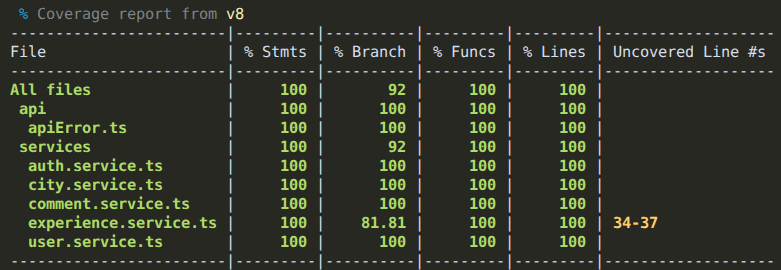
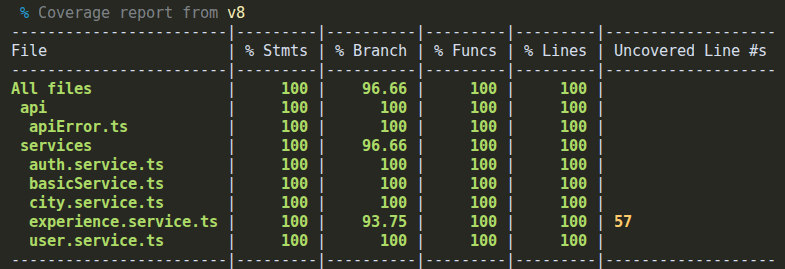
updating tests documentation

diff --git a/docs/development_guide.md b/docs/development_guide.md
@@ -396,149 +396,216 @@ These tests verify complete user workflows such as:
 
 The following table shows the relationship between the implemented automated tests and the functional requirements defined during the analysis phase.
 
-| Functional Requirement   | Tested | Test Type   | Test Class                   | Layer  |
-| ------------------------ | :----: | ----------- | ---------------------------- | ------ |
-| Showing Experiences      |   ✅    | Unit        | ExperienceMapperTest         | Server |
-| Showing Experiences      |   ✅    | Unit        | ExperienceRestControllerTest | Server |
-| Showing Experiences      |   ✅    | Unit        | ExperienceServiceTest        | Server |
-| Showing Experiences      |   ✅    | Unit        | ExperienceSimpleDTOTest      | Server |
-| Showing Experiences      |   ✅    | Unit        | ExperienceTest               | Server |
-| Showing Experiences      |   ✅    | Integration | ExperienceServiceTest        | Server |
-| Showing Experiences      |   ✅    | E2E         | ExperiencesTest              | Server |
-| Showing Experiences      |   ✅    | System      | ExperiencesPageTest          | Server |
-| Showing Experiences      |   ✅    | Unit        | Experience.service.test      | Client |
-| Showing Experiences      |   ✅    | Unit        | Experience.test              | Client |
-| Showing Experiences      |   ✅    | Unit        | ExperiencesPage.test         | Client |
-| Showing Experiences      |   ✅    | Integration | Experiences.test             | Client |
-| Post Experience          |   ✅    | Unit        | ExperienceMapperTest         | Server |
-| Post Experience          |   ✅    | Unit        | ExperienceServiceTest        | Server |
-| Post Experience          |   ✅    | Unit        | ExperienceDTOTest            | Server |
-| Post Experience          |   ✅    | Unit        | ExperienceTest               | Server |
-| Post Experience          |   ✅    | Integration | ExperienceServiceTest        | Server |
-| Post Experience          |   ✅    | E2E         | ExperiencesTest              | Server |
-| Post Experience          |   ✅    | System      | ExperienceFormPageTest       | Server |
-| Post Experience          |   ✅    | Unit        | Experience.service.test      | Client |
-| Post Experience          |   ✅    | Unit        | ExperienceFormPage.test      | Client |
-| Post Experience          |   ✅    | Integration | ExperiencesForm.test         | Client |
-| Post Comment             |   ✅    | Unit        | CommentMapperTest            | Server |
-| Post Comment             |   ✅    | Unit        | ExperienceServiceTest        | Server |
-| Post Comment             |   ✅    | Unit        | CommentDTOTest               | Server |
-| Post Comment             |   ✅    | Unit        | CommentTest                  | Server |
-| Post Comment             |   ✅    | Unit        | ExperienceTest               | Server |
-| Post Comment             |   ✅    | Integration | ExperienceServiceTest        | Server |
-| Post Comment             |   ✅    | E2E         | ExperiencesTest              | Server |
-| Post Comment             |   ✅    | System      | ExperiencesTest              | Server |
-| Post Comment             |   ✅    | Unit        | Comment.service.test         | Client |
-| Post Comment             |   ✅    | Unit        | Comments.test                | Client |
-| Post Comment             |   ✅    | Integration | Comments.test                | Client |
-| View detailed Experience |   ✅    | Unit        | ExperienceMapperTest         | Server |
-| View detailed Experience |   ✅    | Unit        | ExperienceServiceTest        | Server |
-| View detailed Experience |   ✅    | Unit        | ExperienceDTOTest            | Server |
-| View detailed Experience |   ✅    | Unit        | ExperienceTest               | Server |
-| View detailed Experience |   ✅    | Integration | ExperienceServiceTest        | Server |
-| View detailed Experience |   ✅    | E2E         | ExperiencesTest              | Server |
-| View detailed Experience |   ✅    | System      | ExperiencesTest              | Server |
-| View detailed Experience |   ✅    | Unit        | Experience.service.test      | Client |
-| View detailed Experience |   ✅    | Unit        | DetailedExperiencePage.test  | Client |
-| View detailed Experience |   ✅    | Integration | DetailedExperience.test      | Client |
-| SignUp                   |   ✅    | Unit        | UserMapperTest               | Server |
-| SignUp                   |   ✅    | Unit        | UserServiceTest              | Server |
-| SignUp                   |   ✅    | Unit        | UserDTOTest                  | Server |
-| SignUp                   |   ✅    | Unit        | UserTest                     | Server |
-| SignUp                   |   ✅    | Integration | UserServiceTest              | Server |
-| SignUp                   |   ✅    | E2E         | UsersTest                    | Server |
-| SignUp                   |   ✅    | System      | UsersTest                    | Server |
-| SignUp                   |   ✅    | Unit        | User.service.test            | Client |
-| SignUp                   |   ✅    | Unit        | UserFormPage.test            | Client |
-| SignUp                   |   ✅    | Integration | SignUp.test                  | Client |
-| Edit User                |   ✅    | Unit        | UserMapperTest               | Server |
-| Edit User                |   ✅    | Unit        | UserServiceTest              | Server |
-| Edit User                |   ✅    | Unit        | UserDTOTest                  | Server |
-| Edit User                |   ✅    | Unit        | UserTest                     | Server |
-| Edit User                |   ✅    | Integration | UserServiceTest              | Server |
-| Edit User                |   ✅    | E2E         | UsersTest                    | Server |
-| Edit User                |   ✅    | System      | UsersTest                    | Server |
-| Edit User                |   ✅    | Unit        | User.service.test            | Client |
-| Edit User                |   ✅    | Unit        | UserFormPage.test            | Client |
-| Edit User                |   ✅    | Integration | UserForm.test                | Client |
-| Log In                   |   ✅    | Unit        | Auth.service.test            | Client |
-| Log In                   |   ✅    | Unit        | LogInPage.test               | Client |
-| Log In                   |   ✅    | Integration | LogIn.test                   | Client |
-| Log Out                  |   ✅    | Unit        | Auth.service.test            | Client |
-| Log Out                  |   ✅    | Unit        | UserPage.test                | Client |
-| Log Out                  |   ✅    | Integration | Users.test                   | Client |
-| Add City                 |   ✅    | Unit        | CityMapperTest               | Server |
-| Add City                 |   ✅    | Unit        | CityServiceTest              | Server |
-| Add City                 |   ✅    | Unit        | CityDTOTest                  | Server |
-| Add City                 |   ✅    | Unit        | CityTest                     | Server |
-| Add City                 |   ✅    | Integration | CityServiceTest              | Server |
-| Add City                 |   ✅    | E2E         | CitiesTest                   | Server |
-| Add City                 |   ✅    | System      | CitiesTest                   | Server |
-| Add City                 |   ✅    | Unit        | City.service.test            | Client |
-| Add City                 |   ✅    | Unit        | CityFormPage.test            | Client |
-| Add City                 |   ✅    | Integration | CityForm.test                | Client |
-| Get Cities               |   ✅    | Unit        | CityMapperTest               | Server |
-| Get Cities               |   ✅    | Unit        | CityServiceTest              | Server |
-| Get Cities               |   ✅    | Unit        | CitySimpleDTOTest            | Server |
-| Get Cities               |   ✅    | Unit        | CityTest                     | Server |
-| Get Cities               |   ✅    | Integration | CityServiceTest              | Server |
-| Get Cities               |   ✅    | E2E         | CitiesTest                   | Server |
-| Get Cities               |   ✅    | System      | CitiesTest                   | Server |
-| Get Cities               |   ✅    | Unit        | City.service.test            | Client |
-| Get Cities               |   ✅    | Unit        | ExperienceFormPage.test      | Client |
-| Get Cities               |   ✅    | Integration | ExperienceForm.test          | Client |
-| Show user's experiences  |   ✅    | Unit        | ExperienceMapperTest         | Server |
-| Show user's experiences  |   ✅    | Unit        | UserServiceTest              | Server |
-| Show user's experiences  |   ✅    | Unit        | ExperienceSimpleDTOTest      | Server |
-| Show user's experiences  |   ✅    | Unit        | UserTest                     | Server |
-| Show user's experiences  |   ✅    | Unit        | ExperienceTest               | Server |
-| Show user's experiences  |   ✅    | Integration | UserServiceTest              | Server |
-| Show user's experiences  |   ✅    | E2E         | UsersTest                    | Server |
-| Show user's experiences  |   ✅    | System      | UsersTest                    | Server |
-| Show user's experiences  |   ✅    | Unit        | User.service.test            | Client |
-| Show user's experiences  |   ✅    | Unit        | UserPage.test                | Client |
-| Show user's experiences  |   ✅    | Integration | User.test                    | Client |
-| Show user's comments     |   ✅    | Unit        | CommentMapperTest            | Server |
-| Show user's comments     |   ✅    | Unit        | UserServiceTest              | Server |
-| Show user's comments     |   ✅    | Unit        | CommentSimpleDTOTest         | Server |
-| Show user's comments     |   ✅    | Unit        | UserTest                     | Server |
-| Show user's comments     |   ✅    | Unit        | CommentTest                  | Server |
-| Show user's comments     |   ✅    | Integration | UserServiceTest              | Server |
-| Show user's comments     |   ✅    | E2E         | UsersTest                    | Server |
-| Show user's comments     |   ✅    | System      | UsersTest                    | Server |
-| Show user's comments     |   ✅    | Unit        | User.service.test            | Client |
-| Show user's comments     |   ✅    | Unit        | UserPage.test                | Client |
-| Show user's comments     |   ✅    | Integration | User.test                    | Client |
-| Delete Experience        |   ✅    | Unit        | ExperienceMapperTest         | Server |
-| Delete Experience        |   ✅    | Unit        | ExperienceServiceTest        | Server |
-| Delete Experience        |   ✅    | Unit        | ExperienceDTOTest            | Server |
-| Delete Experience        |   ✅    | Unit        | ExperienceTest               | Server |
-| Delete Experience        |   ✅    | Integration | ExperienceServiceTest        | Server |
-| Delete Experience        |   ✅    | E2E         | ExperiencesTest              | Server |
-| Delete Experience        |   ✅    | System      | ExperiencesTest              | Server |
-| Delete Experience        |   ✅    | Unit        | Experience.service.test      | Client |
-| Delete Experience        |   ✅    | Unit        | UserPage.test                | Client |
-| Delete Experience        |   ✅    | Integration | User.test                    | Client |
-| Delete Comment           |   ✅    | Unit        | CommentMapperTest            | Server |
-| Delete Comment           |   ✅    | Unit        | CommentServiceTest           | Server |
-| Delete Comment           |   ✅    | Unit        | CommentDTOTest               | Server |
-| Delete Comment           |   ✅    | Unit        | CommentTest                  | Server |
-| Delete Comment           |   ✅    | Integration | CommentServiceTest           | Server |
-| Delete Comment           |   ✅    | E2E         | CommentsTest                 | Server |
-| Delete Comment           |   ✅    | System      | CommentsTest                 | Server |
-| Delete Comment           |   ✅    | Unit        | Comment.service.test         | Client |
-| Delete Comment           |   ✅    | Unit        | UserPage.test                | Client |
-| Delete Comment           |   ✅    | Integration | User.test                    | Client |
-| Delete User              |   ✅    | Unit        | UserMapperTest               | Server |
-| Delete Comment           |   ✅    | Unit        | UserServiceTest              | Server |
-| Delete Comment           |   ✅    | Unit        | UserDTOTest                  | Server |
-| Delete Comment           |   ✅    | Unit        | UserTest                     | Server |
-| Delete Comment           |   ✅    | Integration | UserServiceTest              | Server |
-| Delete Comment           |   ✅    | E2E         | UsersTest                    | Server |
-| Delete Comment           |   ✅    | System      | UsersTest                    | Server |
-| Delete Comment           |   ✅    | Unit        | User.service.test            | Client |
-| Delete Comment           |   ✅    | Unit        | UserPage.test                | Client |
-| Delete Comment           |   ✅    | Integration | User.test                    | Client |
+| Functional Requirement        | Tested | Test Type   | Test Class                   | Layer  |
+| ----------------------------- | :----: | ----------- | ---------------------------- | ------ |
+| Showing Experiences           |   ✅    | Unit        | ExperienceMapperTest         | Server |
+| Showing Experiences           |   ✅    | Unit        | ExperienceRestControllerTest | Server |
+| Showing Experiences           |   ✅    | Unit        | ExperienceServiceTest        | Server |
+| Showing Experiences           |   ✅    | Unit        | ExperienceSimpleDTOTest      | Server |
+| Showing Experiences           |   ✅    | Unit        | ExperienceTest               | Server |
+| Showing Experiences           |   ✅    | Integration | ExperienceServiceTest        | Server |
+| Showing Experiences           |   ✅    | E2E         | ExperiencesTest              | Server |
+| Showing Experiences           |   ✅    | System      | ExperiencesPageTest          | Server |
+| Showing Experiences           |   ✅    | Unit        | Experience.service.test      | Client |
+| Showing Experiences           |   ✅    | Unit        | Experience.test              | Client |
+| Showing Experiences           |   ✅    | Unit        | ExperiencesPage.test         | Client |
+| Showing Experiences           |   ✅    | Integration | Experiences.test             | Client |
+| Post Experience               |   ✅    | Unit        | ExperienceMapperTest         | Server |
+| Post Experience               |   ✅    | Unit        | ExperienceServiceTest        | Server |
+| Post Experience               |   ✅    | Unit        | ExperienceDTOTest            | Server |
+| Post Experience               |   ✅    | Unit        | ExperienceTest               | Server |
+| Post Experience               |   ✅    | Integration | ExperienceServiceTest        | Server |
+| Post Experience               |   ✅    | E2E         | ExperiencesTest              | Server |
+| Post Experience               |   ✅    | System      | ExperienceFormPageTest       | Server |
+| Post Experience               |   ✅    | Unit        | Experience.service.test      | Client |
+| Post Experience               |   ✅    | Unit        | ExperienceFormPage.test      | Client |
+| Post Experience               |   ✅    | Integration | ExperiencesForm.test         | Client |
+| Post Comment                  |   ✅    | Unit        | CommentMapperTest            | Server |
+| Post Comment                  |   ✅    | Unit        | ExperienceServiceTest        | Server |
+| Post Comment                  |   ✅    | Unit        | CommentDTOTest               | Server |
+| Post Comment                  |   ✅    | Unit        | CommentTest                  | Server |
+| Post Comment                  |   ✅    | Unit        | ExperienceTest               | Server |
+| Post Comment                  |   ✅    | Integration | ExperienceServiceTest        | Server |
+| Post Comment                  |   ✅    | E2E         | ExperiencesTest              | Server |
+| Post Comment                  |   ✅    | System      | ExperiencesTest              | Server |
+| Post Comment                  |   ✅    | Unit        | Comment.service.test         | Client |
+| Post Comment                  |   ✅    | Unit        | Comments.test                | Client |
+| Post Comment                  |   ✅    | Integration | Comments.test                | Client |
+| View detailed Experience      |   ✅    | Unit        | ExperienceMapperTest         | Server |
+| View detailed Experience      |   ✅    | Unit        | ExperienceServiceTest        | Server |
+| View detailed Experience      |   ✅    | Unit        | ExperienceDTOTest            | Server |
+| View detailed Experience      |   ✅    | Unit        | ExperienceTest               | Server |
+| View detailed Experience      |   ✅    | Integration | ExperienceServiceTest        | Server |
+| View detailed Experience      |   ✅    | E2E         | ExperiencesTest              | Server |
+| View detailed Experience      |   ✅    | System      | ExperiencesTest              | Server |
+| View detailed Experience      |   ✅    | Unit        | Experience.service.test      | Client |
+| View detailed Experience      |   ✅    | Unit        | DetailedExperiencePage.test  | Client |
+| View detailed Experience      |   ✅    | Integration | DetailedExperience.test      | Client |
+| SignUp                        |   ✅    | Unit        | UserMapperTest               | Server |
+| SignUp                        |   ✅    | Unit        | UserServiceTest              | Server |
+| SignUp                        |   ✅    | Unit        | UserDTOTest                  | Server |
+| SignUp                        |   ✅    | Unit        | UserTest                     | Server |
+| SignUp                        |   ✅    | Integration | UserServiceTest              | Server |
+| SignUp                        |   ✅    | E2E         | UsersTest                    | Server |
+| SignUp                        |   ✅    | System      | UsersTest                    | Server |
+| SignUp                        |   ✅    | Unit        | User.service.test            | Client |
+| SignUp                        |   ✅    | Unit        | UserFormPage.test            | Client |
+| SignUp                        |   ✅    | Integration | SignUp.test                  | Client |
+| Edit User                     |   ✅    | Unit        | UserMapperTest               | Server |
+| Edit User                     |   ✅    | Unit        | UserServiceTest              | Server |
+| Edit User                     |   ✅    | Unit        | UserDTOTest                  | Server |
+| Edit User                     |   ✅    | Unit        | UserTest                     | Server |
+| Edit User                     |   ✅    | Integration | UserServiceTest              | Server |
+| Edit User                     |   ✅    | E2E         | UsersTest                    | Server |
+| Edit User                     |   ✅    | System      | UsersTest                    | Server |
+| Edit User                     |   ✅    | Unit        | User.service.test            | Client |
+| Edit User                     |   ✅    | Unit        | UserFormPage.test            | Client |
+| Edit User                     |   ✅    | Integration | UserForm.test                | Client |
+| Log In                        |   ✅    | Unit        | Auth.service.test            | Client |
+| Log In                        |   ✅    | Unit        | LogInPage.test               | Client |
+| Log In                        |   ✅    | Integration | LogIn.test                   | Client |
+| Log Out                       |   ✅    | Unit        | Auth.service.test            | Client |
+| Log Out                       |   ✅    | Unit        | UserPage.test                | Client |
+| Log Out                       |   ✅    | Integration | Users.test                   | Client |
+| Add City                      |   ✅    | Unit        | CityMapperTest               | Server |
+| Add City                      |   ✅    | Unit        | CityServiceTest              | Server |
+| Add City                      |   ✅    | Unit        | CityDTOTest                  | Server |
+| Add City                      |   ✅    | Unit        | CityTest                     | Server |
+| Add City                      |   ✅    | Integration | CityServiceTest              | Server |
+| Add City                      |   ✅    | E2E         | CitiesTest                   | Server |
+| Add City                      |   ✅    | System      | CitiesTest                   | Server |
+| Add City                      |   ✅    | Unit        | City.service.test            | Client |
+| Add City                      |   ✅    | Unit        | CityFormPage.test            | Client |
+| Add City                      |   ✅    | Integration | CityForm.test                | Client |
+| Get Cities                    |   ✅    | Unit        | CityMapperTest               | Server |
+| Get Cities                    |   ✅    | Unit        | CityServiceTest              | Server |
+| Get Cities                    |   ✅    | Unit        | CitySimpleDTOTest            | Server |
+| Get Cities                    |   ✅    | Unit        | CityTest                     | Server |
+| Get Cities                    |   ✅    | Integration | CityServiceTest              | Server |
+| Get Cities                    |   ✅    | E2E         | CitiesTest                   | Server |
+| Get Cities                    |   ✅    | System      | CitiesTest                   | Server |
+| Get Cities                    |   ✅    | Unit        | City.service.test            | Client |
+| Get Cities                    |   ✅    | Unit        | ExperienceFormPage.test      | Client |
+| Get Cities                    |   ✅    | Integration | ExperienceForm.test          | Client |
+| Show user's experiences       |   ✅    | Unit        | ExperienceMapperTest         | Server |
+| Show user's experiences       |   ✅    | Unit        | UserServiceTest              | Server |
+| Show user's experiences       |   ✅    | Unit        | ExperienceSimpleDTOTest      | Server |
+| Show user's experiences       |   ✅    | Unit        | UserTest                     | Server |
+| Show user's experiences       |   ✅    | Unit        | ExperienceTest               | Server |
+| Show user's experiences       |   ✅    | Integration | UserServiceTest              | Server |
+| Show user's experiences       |   ✅    | E2E         | UsersTest                    | Server |
+| Show user's experiences       |   ✅    | System      | UsersTest                    | Server |
+| Show user's experiences       |   ✅    | Unit        | User.service.test            | Client |
+| Show user's experiences       |   ✅    | Unit        | UserPage.test                | Client |
+| Show user's experiences       |   ✅    | Integration | User.test                    | Client |
+| Show user's comments          |   ✅    | Unit        | CommentMapperTest            | Server |
+| Show user's comments          |   ✅    | Unit        | UserServiceTest              | Server |
+| Show user's comments          |   ✅    | Unit        | CommentSimpleDTOTest         | Server |
+| Show user's comments          |   ✅    | Unit        | UserTest                     | Server |
+| Show user's comments          |   ✅    | Unit        | CommentTest                  | Server |
+| Show user's comments          |   ✅    | Integration | UserServiceTest              | Server |
+| Show user's comments          |   ✅    | E2E         | UsersTest                    | Server |
+| Show user's comments          |   ✅    | System      | UsersTest                    | Server |
+| Show user's comments          |   ✅    | Unit        | User.service.test            | Client |
+| Show user's comments          |   ✅    | Unit        | UserPage.test                | Client |
+| Show user's comments          |   ✅    | Integration | User.test                    | Client |
+| Delete Experience             |   ✅    | Unit        | ExperienceMapperTest         | Server |
+| Delete Experience             |   ✅    | Unit        | ExperienceServiceTest        | Server |
+| Delete Experience             |   ✅    | Unit        | ExperienceDTOTest            | Server |
+| Delete Experience             |   ✅    | Unit        | ExperienceTest               | Server |
+| Delete Experience             |   ✅    | Integration | ExperienceServiceTest        | Server |
+| Delete Experience             |   ✅    | E2E         | ExperiencesTest              | Server |
+| Delete Experience             |   ✅    | System      | ExperiencesTest              | Server |
+| Delete Experience             |   ✅    | Unit        | Experience.service.test      | Client |
+| Delete Experience             |   ✅    | Unit        | UserPage.test                | Client |
+| Delete Experience             |   ✅    | Integration | User.test                    | Client |
+| Delete Comment                |   ✅    | Unit        | CommentMapperTest            | Server |
+| Delete Comment                |   ✅    | Unit        | CommentServiceTest           | Server |
+| Delete Comment                |   ✅    | Unit        | CommentDTOTest               | Server |
+| Delete Comment                |   ✅    | Unit        | CommentTest                  | Server |
+| Delete Comment                |   ✅    | Integration | CommentServiceTest           | Server |
+| Delete Comment                |   ✅    | E2E         | CommentsTest                 | Server |
+| Delete Comment                |   ✅    | System      | CommentsTest                 | Server |
+| Delete Comment                |   ✅    | Unit        | Comment.service.test         | Client |
+| Delete Comment                |   ✅    | Unit        | UserPage.test                | Client |
+| Delete Comment                |   ✅    | Integration | User.test                    | Client |
+| Delete User                   |   ✅    | Unit        | UserMapperTest               | Server |
+| Delete Comment                |   ✅    | Unit        | UserServiceTest              | Server |
+| Delete Comment                |   ✅    | Unit        | UserDTOTest                  | Server |
+| Delete Comment                |   ✅    | Unit        | UserTest                     | Server |
+| Delete Comment                |   ✅    | Integration | UserServiceTest              | Server |
+| Delete Comment                |   ✅    | E2E         | UsersTest                    | Server |
+| Delete Comment                |   ✅    | System      | UsersTest                    | Server |
+| Delete Comment                |   ✅    | Unit        | User.service.test            | Client |
+| Delete Comment                |   ✅    | Unit        | UserPage.test                | Client |
+| Delete Comment                |   ✅    | Integration | User.test                    | Client |
+| Filter Experiences            |   ✅    | Unit        | ExperiencesServiceTest       | Server |
+| Filter Experiences            |   ✅    | Integration | ExperiencesServiceTest       | Server |
+| Filter Experiences            |   ✅    | E2E         | ExperiencesTest              | Server |
+| Filter Experiences            |   ✅    | System      | ExperiencesPageTest          | Server |
+| Filter Experiences            |   ✅    | Unit        | Experience.service.test      | Client |
+| Filter Experiences            |   ✅    | Unit        | Basic.service.test           | Client |
+| Filter Experiences            |   ✅    | Unit        | Filter.test                  | Client |
+| Filter Experiences            |   ✅    | Integration | Experiences.test             | Client |
+| Display City information      |   ✅    | Unit        | CityServiceTest              | Server |
+| Display City information      |   ✅    | Unit        | CityDTOTest                  | Server |
+| Display City information      |   ✅    | Unit        | CityMapperTest               | Server |
+| Display City information      |   ✅    | Integration | CityServiceTest              | Server |
+| Display City information      |   ✅    | E2E         | CitiesTest                   | Server |
+| Display City information      |   ✅    | System      | CityPageTest                 | Server |
+| Display City information      |   ✅    | Unit        | Basic.service.test           | Client |
+| Display City information      |   ✅    | Unit        | CityPage.test                | Client |
+| Display City information      |   ✅    | Integration | DetailedCity.test            | Client |
+| Trending Cities               |   ✅    | Unit        | CityServiceTest              | Server |
+| Trending Cities               |   ✅    | Integration | CityServiceTest              | Server |
+| Trending Cities               |   ✅    | E2E         | CitiesTest                   | Server |
+| Trending Cities               |   ✅    | System      | CitiesPageTest               | Server |
+| Trending Cities               |   ✅    | Unit        | Basic.service.test           | Client |
+| Trending Cities               |   ✅    | Unit        | CitiesPage.test              | Client |
+| Trending Cities               |   ✅    | Integration | Cities.test                  | Client |
+| Upload experience multimedia  |   ✅    | Unit        | ExperienceMultimediaTest     | Server |
+| Upload experience multimedia  |   ✅    | Unit        | ExperienceMultimediaDTOTest  | Server |
+| Upload experience multimedia  |   ✅    | Unit        | MultimediaMapperTest         | Server |
+| Upload experience multimedia  |   ✅    | Unit        | ExperienceTest               | Server |
+| Upload experience multimedia  |   ✅    | Unit        | MultimediaServiceTest        | Server |
+| Upload experience multimedia  |   ✅    | Integration | MultimediaServiceTest        | Server |
+| Upload experience multimedia  |   ✅    | E2E         | ExperiencesTest              | Server |
+| Upload experience multimedia  |   ✅    | System      | ExperienceFormPageTest       | Server |
+| Upload experience multimedia  |   ✅    | Unit        | Basic.service.test           | Client |
+| Upload experience multimedia  |   ✅    | Unit        | Experience.service.test      | Client |
+| Upload experience multimedia  |   ✅    | Unit        | ExperienceFormPage.test      | Client |
+| Upload experience multimedia  |   ✅    | Integration | ExperiencesForm.test         | Client |
+| Upload profile image          |   ✅    | Unit        | UserImageTest                | Server |
+| Upload profile image          |   ✅    | Unit        | UserImageDTOTest             | Server |
+| Upload profile image          |   ✅    | Unit        | MultimediaMapperTest         | Server |
+| Upload profile image          |   ✅    | Unit        | UserTest                     | Server |
+| Upload profile image          |   ✅    | Unit        | MultimediaServiceTest        | Server |
+| Upload profile image          |   ✅    | Integration | MultimediaServiceTest        | Server |
+| Upload profile image          |   ✅    | E2E         | UsersTest                    | Server |
+| Upload profile image          |   ✅    | System      | UserPageTest                 | Server |
+| Upload profile image          |   ✅    | Unit        | Basic.service.test           | Client |
+| Upload profile image          |   ✅    | Unit        | User.service.test            | Client |
+| Upload profile image          |   ✅    | Unit        | ProfileImageDialog.test      | Client |
+| Upload profile image          |   ✅    | Integration | Users.test                   | Client |
+| Display experience multimedia |   ✅    | Unit        | ExperienceDTOTest            | Server |
+| Display experience multimedia |   ✅    | Unit        | MultimediaSimpleDTOTest      | Server |
+| Display experience multimedia |   ✅    | Unit        | MultimediaMapperTest         | Server |
+| Display experience multimedia |   ✅    | Unit        | ExperienceMapperTest         | Server |
+| Display experience multimedia |   ✅    | Unit        | MultimediaServiceTest        | Server |
+| Display experience multimedia |   ✅    | Integration | MultimediaServiceTest        | Server |
+| Display experience multimedia |   ✅    | E2E         | ExperiencesTest              | Server |
+| Display experience multimedia |   ✅    | System      | DetailedExperiencePageTest   | Server |
+| Display profile image         |   ✅    | Unit        | UserDTOTest                  | Server |
+| Display profile image         |   ✅    | Unit        | MultimediaSimpleDTOTest      | Server |
+| Display profile image         |   ✅    | Unit        | MultimediaMapperTest         | Server |
+| Display profile image         |   ✅    | Unit        | UserMapperTest               | Server |
+| Display profile image         |   ✅    | Unit        | MultimediaServiceTest        | Server |
+| Display profile image         |   ✅    | Integration | MultimediaServiceTest        | Server |
+| Display profile image         |   ✅    | E2E         | UsersTest                    | Server |
+| Display profile image         |   ✅    | System      | UserPageTest                 | Server |
+| Share Experience              |   ✅    | Unit        | ShareDialog.test             | Client |
+| Share Experience              |   ✅    | Unit        | MultimediaSimpleDTOTest      | Client |
+| Share Experience              |   ✅    | System      | DetailedExperiencePageTest   | Server |
 
 ---
 
@@ -571,9 +638,9 @@ Code coverage is measured independently for both application layers.
 
 Coverage summary:
 
-- Line coverage: 90 %
-- Branch coverage: 72 %
-- Classes covered: 49 / 49
+- Line coverage: 93 %
+- Branch coverage: 75 %
+- Classes covered: 60 / 60
 
 ---
 
@@ -583,17 +650,17 @@ Coverage summary:
 
 Coverage summary:
 
-- Statements: 94.48 %
-- Branches: 85.78 %
-- Functions: 92 %
-- Lines: 95.4 %
+- Statements: 91.69 %
+- Branches: 80.18 %
+- Functions: 95 %
+- Lines: 92.34 %
 
 ![Frontend Coverage](./images/shared_coverage.png)
 
 Coverage summary:
 
 - Statements: 100 %
-- Branches: 92 %
+- Branches: 96.66 %
 - Functions: 100 %
 - Lines: 100 %
 
